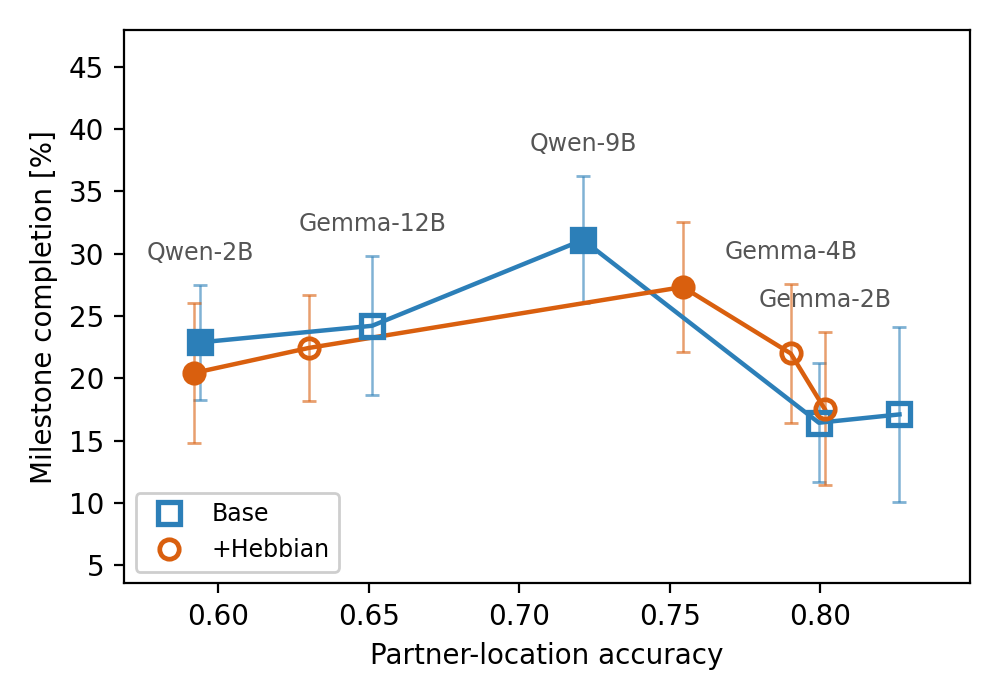
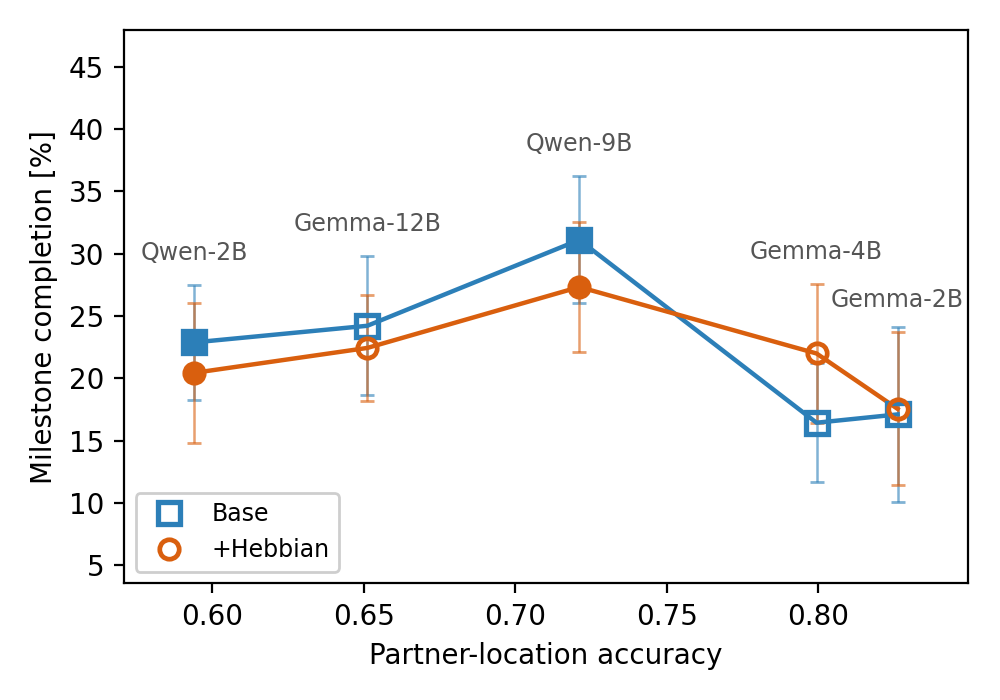
Paper pareto figures: both arms at the base arm's x, so each model is one labelled vertical pair

diff --git a/scripts/make_pareto_perception_fig.py b/scripts/make_pareto_perception_fig.py
@@ -88,8 +88,13 @@ def draw(rows, out_png: Path, xlabel: str, errorbars: str = "none",
     # One line per arm through every model, sorted by x; family on the fill.
     for arm in ("base", "hebbian"):
         st = ARM_STYLE[arm]
-        pts = sorted(((r[arm]["x"][0], r[arm]["y"][0], r["family"],
-                       r[arm]["x"][1], r[arm]["y"][1])
+        # BOTH arms sit at the BASE arm's x: the axis is a backbone property
+        # (couplings shift it by <= 2 pp), and per-arm x scattered a model's
+        # two markers so far apart on the partner axis that neighbouring
+        # models interleaved and the point labels became unattributable.
+        # Each model is one vertical base/+Hebbian pair under its label.
+        pts = sorted(((r["base"]["x"][0], r[arm]["y"][0], r["family"],
+                       r["base"]["x"][1], r[arm]["y"][1])
                       for r in rows.values()), key=lambda t: t[0])
         ax.plot([p[0] for p in pts], [p[1] for p in pts], color=st["color"],
                 ls="-", lw=1.6, zorder=2)
@@ -129,17 +134,17 @@ def draw(rows, out_png: Path, xlabel: str, errorbars: str = "none",
             # The leftmost model's label would sit on the segment climbing
             # to its right neighbour; hang it under the lower arm instead.
             ax.annotate(SHORT_LABEL.get(size, size),
-                        (r[lo_arm]["x"][0], y_lo),
+                        (xv, y_lo),
                         textcoords="offset points", xytext=(0, -16),
                         ha="center", fontsize=8.5, color="#555555", zorder=4)
         elif crowded:
             ax.annotate(SHORT_LABEL.get(size, size),
-                        (r[lo_arm]["x"][0], y_lo),
+                        (xv, y_lo),
                         textcoords="offset points", xytext=(7, -16),
                         ha="left", fontsize=8.5, color="#555555", zorder=4)
         else:
             ax.annotate(SHORT_LABEL.get(size, size),
-                        (r[hi_arm]["x"][0], y_hi),
+                        (xv, y_hi),
                         textcoords="offset points", xytext=(0, 9),
                         ha="center", fontsize=8.5, color="#555555", zorder=4)
         prev_x = xv

diff --git a/.claude/skills/pareto-plots/SKILL.md b/.claude/skills/pareto-plots/SKILL.md
@@ -249,6 +249,10 @@ open circle, the social figure's style); family lives on marker FILL and
 must be stated in the caption (open Gemma / filled Qwen). A four-entry
 legend collided with the data on the partner axis. `--legend-loc`:
 lower right (grounding default) / lower left (partner).
+Both arms are plotted at the BASE arm's x (backbone property, couplings
+shift it <=2pp): per-arm x interleaved neighbouring models on the
+partner axis and made the labels unattributable. Captions must say
+"x is the base arm's <rate>".
 LABEL_BELOW hangs the leftmost model's label under its lower arm — the
 segment climbing to Gemma-4B crosses an above-label. Paper side: the new
 section is \input in results.tex before the RQ2 heading; tab:final_comparison
